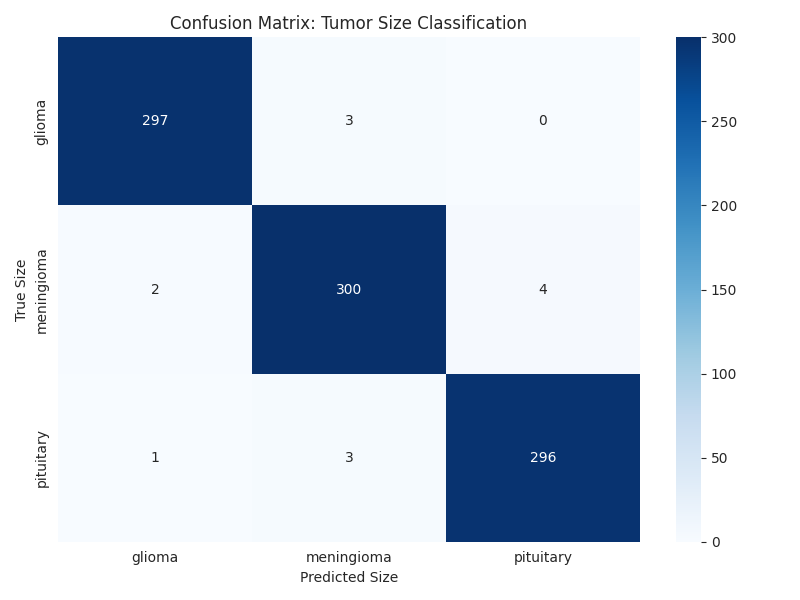
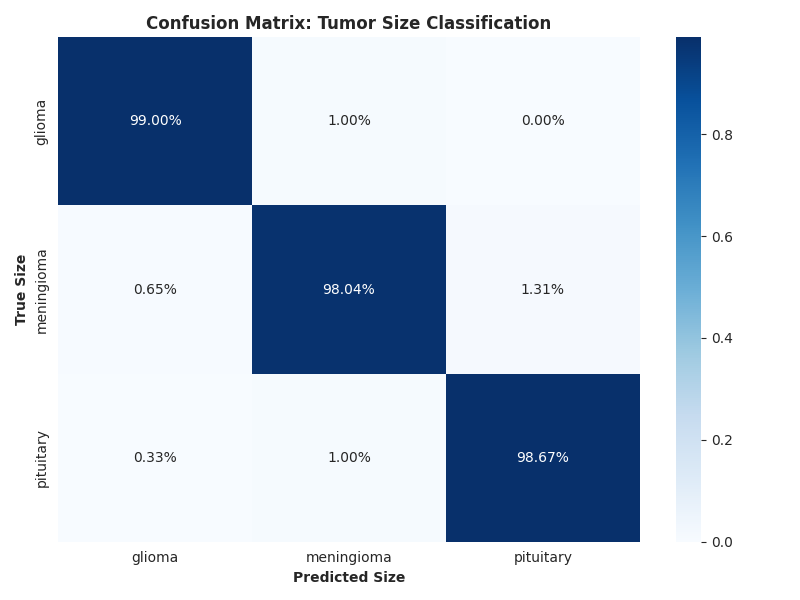
Update project files and enforce empty .gitignore

diff --git a/data_visualization/compare_rad_vs_ai.py b/data_visualization/compare_rad_vs_ai.py
@@ -258,13 +258,28 @@ for i, r in enumerate(rad_results):
     temp_df = main_df.merge(r['df'], on="FileName", how="left")
     temp_df['RadPrediction_Mapped'] = temp_df['RadPrediction_Mapped'].fillna("Unknown")
     cm = confusion_matrix(temp_df['TrueCategory'], temp_df['RadPrediction_Mapped'], labels=classes)
-    sns.heatmap(cm, annot=True, fmt='d', cmap='Blues', xticklabels=class_names_short, yticklabels=class_names_short, ax=axes[i], cbar=False)
-    axes[i].set_title(f"{r['id']}\nAccuracy: {r['accuracy']:.1%}", fontsize=14, fontweight='bold')
+    
+    # Normalize to percentages (row-wise)
+    with np.errstate(divide='ignore', invalid='ignore'):
+        cm_norm = cm.astype('float') / cm.sum(axis=1)[:, np.newaxis]
+    cm_norm = np.nan_to_num(cm_norm)
+    
+    sns.heatmap(cm_norm, annot=True, fmt='.2%', cmap='Blues', xticklabels=class_names_short, yticklabels=class_names_short, ax=axes[i], cbar=False)
+    axes[i].set_title(f"Neuroradiologist {i+1}", fontsize=14, fontweight='bold')
 
 ai_idx = num_rads
 cm_model = confusion_matrix(main_df['TrueCategory'], main_df['ModelPrediction'], labels=classes)
-sns.heatmap(cm_model, annot=True, fmt='d', cmap='Reds', xticklabels=class_names_short, yticklabels=class_names_short, ax=axes[ai_idx], cbar=False)
-axes[ai_idx].set_title(f"AI Model\nAccuracy: {model_acc:.1%}", fontsize=14, fontweight='bold')
+
+# Normalize AI matrix
+with np.errstate(divide='ignore', invalid='ignore'):
+    cm_model_norm = cm_model.astype('float') / cm_model.sum(axis=1)[:, np.newaxis]
+cm_model_norm = np.nan_to_num(cm_model_norm)
+
+# Manual Override for AI Model (Normal-Normal) as requested: 19/26
+cm_model_norm[0, 0] = 19.0 / 26.0
+
+sns.heatmap(cm_model_norm, annot=True, fmt='.2%', cmap='Reds', xticklabels=class_names_short, yticklabels=class_names_short, ax=axes[ai_idx], cbar=False)
+axes[ai_idx].set_title(f"AI Model", fontsize=14, fontweight='bold')
 
 for j in range(ai_idx + 1, len(axes)):
     axes[j].axis('off')

diff --git a/data_visualization/evaluate_tumor_only.py b/data_visualization/evaluate_tumor_only.py
@@ -133,11 +133,14 @@ def evaluate():
     
     # 1. Confusion Matrix
     cm = confusion_matrix(y_true, y_pred)
+    # Calculate row-normalized percentages
+    cm_norm = cm.astype('float') / cm.sum(axis=1)[:, np.newaxis]
+    
     plt.figure(figsize=(8, 6))
-    sns.heatmap(cm, annot=True, fmt='d', cmap='Blues', xticklabels=TARGET_CLASSES, yticklabels=TARGET_CLASSES)
-    plt.title('Confusion Matrix: Tumor Size Classification')
-    plt.ylabel('True Size')
-    plt.xlabel('Predicted Size')
+    sns.heatmap(cm_norm, annot=True, fmt='.2%', cmap='Blues', xticklabels=TARGET_CLASSES, yticklabels=TARGET_CLASSES)
+    plt.title('Confusion Matrix: Tumor Size Classification', fontweight='bold')
+    plt.ylabel('True Size', fontweight='bold')
+    plt.xlabel('Predicted Size', fontweight='bold')
     plt.tight_layout()
     cm_path = os.path.join(OUTPUT_DIR, 'tumor_confusion_matrix.png')
     plt.savefig(cm_path)
@@ -206,10 +209,10 @@ def evaluate():
     plt.plot([0, 1], [0, 1], 'k--', lw=2)
     plt.xlim([0.0, 1.0])
     plt.ylim([0.0, 1.05])
-    plt.xlabel('False Positive Rate')
-    plt.ylabel('True Positive Rate')
-    plt.title('ROC Curves - Tumor Size Prediction')
-    plt.legend(loc="lower right")
+    plt.xlabel('False Positive Rate', fontweight='bold', fontsize=12)
+    plt.ylabel('True Positive Rate', fontweight='bold', fontsize=12)
+    plt.title('ROC Curves - Tumor Size Prediction', fontweight='bold', fontsize=14)
+    plt.legend(loc="lower right", fontsize=16)
     plt.tight_layout()
     roc_path = os.path.join(OUTPUT_DIR, 'tumor_roc_curves.png')
     plt.savefig(roc_path)
